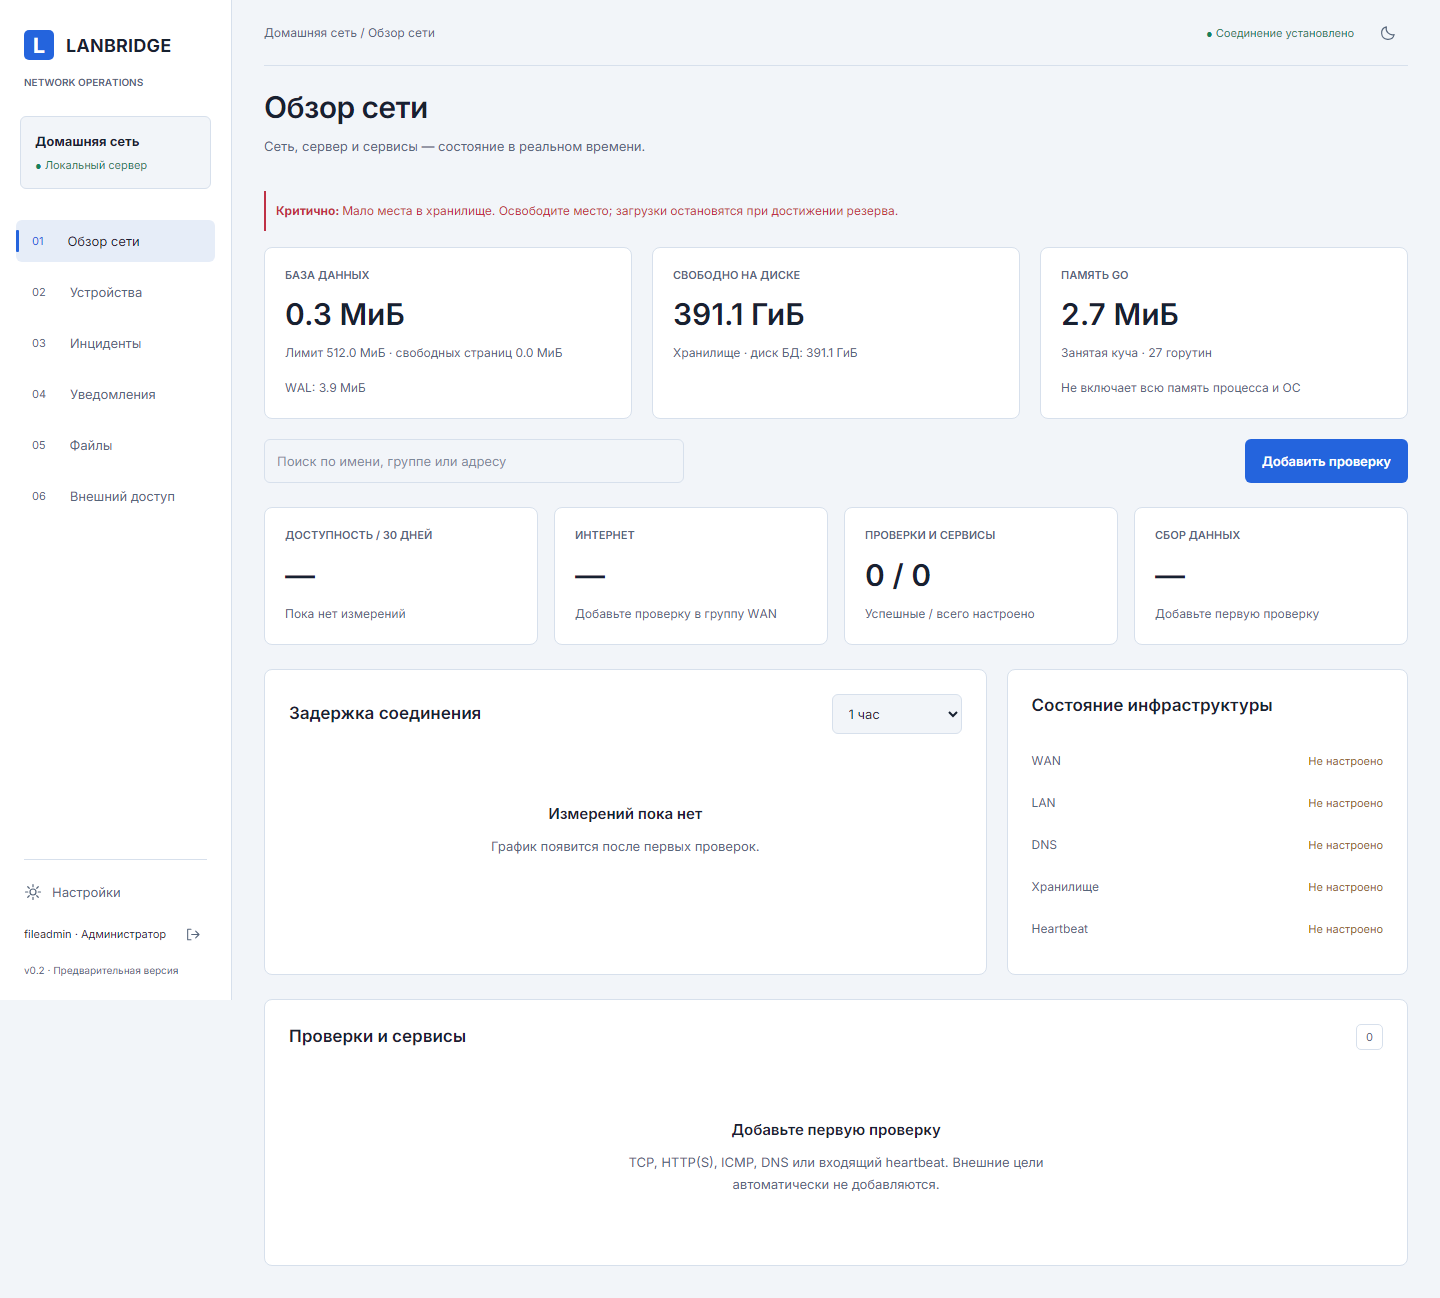
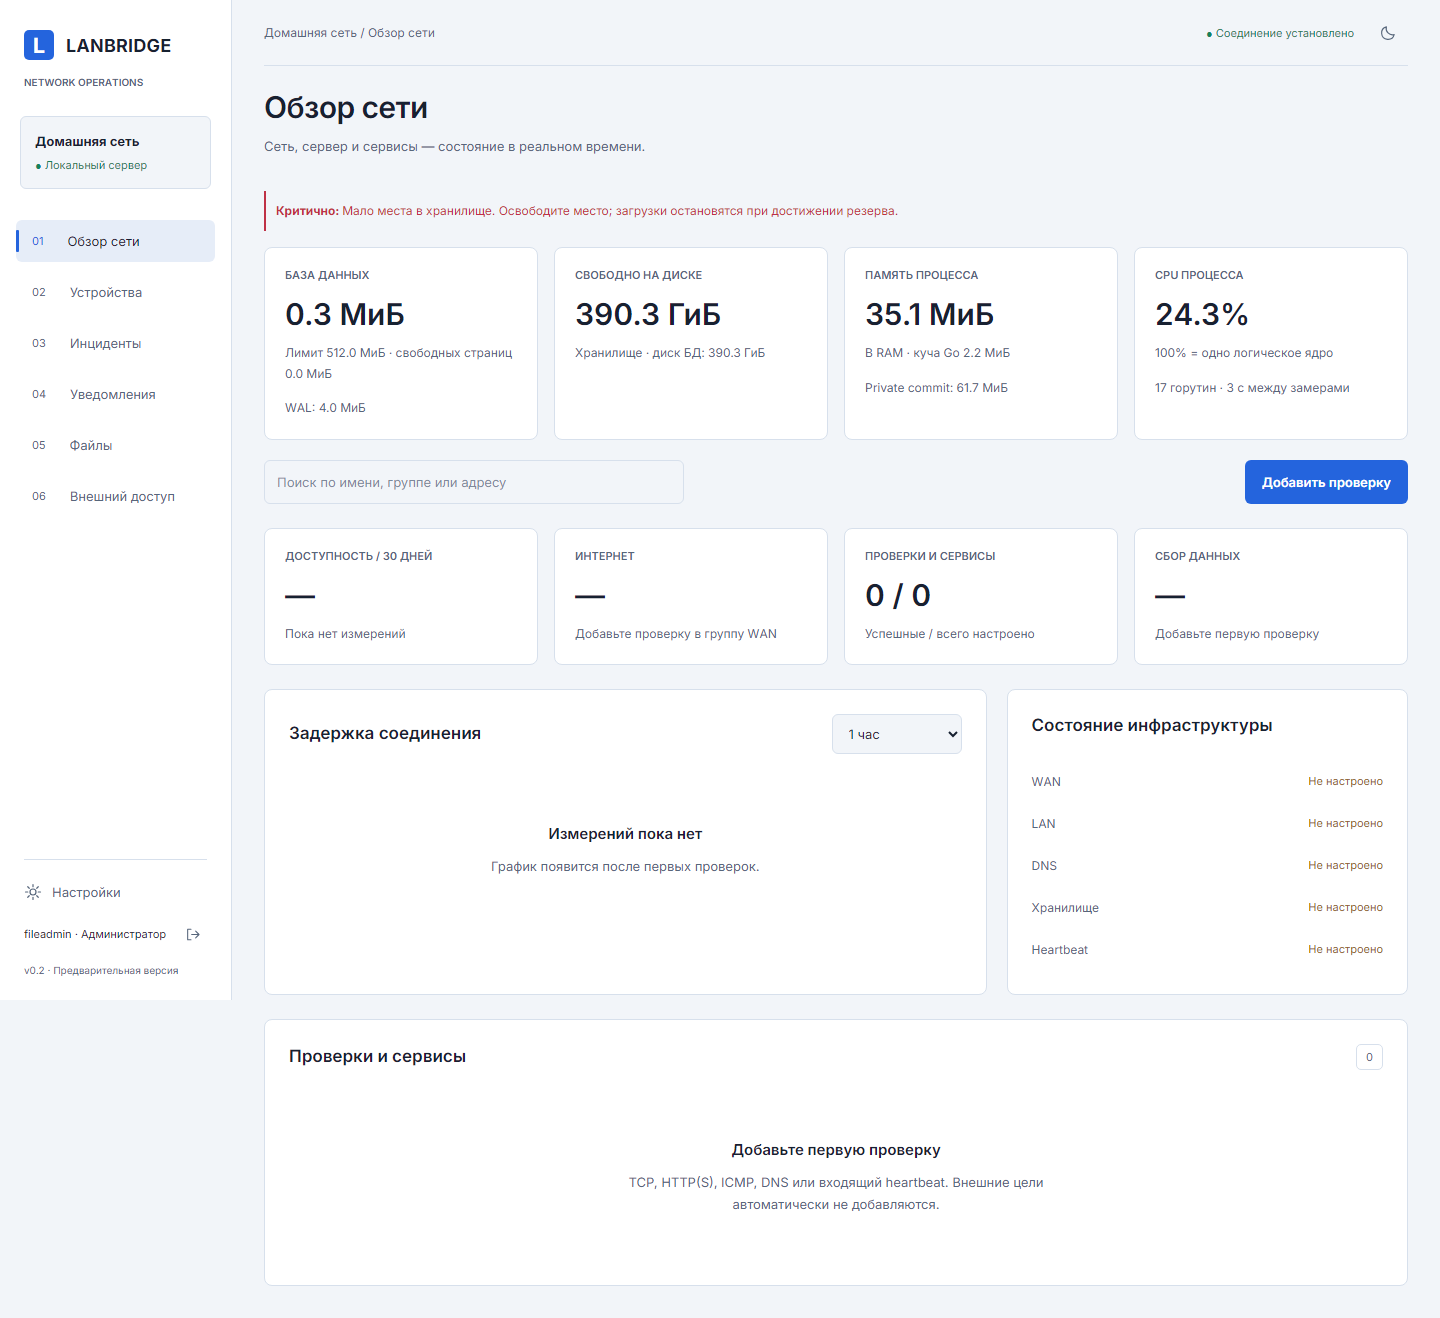
feat: show native process CPU and memory metrics

diff --git a/web/src/resources.js b/web/src/resources.js
@@ -22,10 +22,11 @@ export function Resources({api,details=false}) {
  return html`<section class="resource-status" aria-label="Ресурсы сервера">
   ${error&&html`<p class="connection-note" role="status">${error}${data?' Показаны предыдущие измерения.':''}</p>`}
   ${data?.alerts.map(a=>html`<p key=${a.code} class=${a.level==='critical'?'form-error':'connection-note'} role="status"><strong>${a.level==='critical'?'Критично: ':a.level==='unknown'?'Нет измерения: ':'Внимание: '}</strong>${a.message}</p>`)}
-  ${details&&data&&html`<div class="stats three">
+  ${details&&data&&html`<div class="stats four">
    <section class="stat"><h2>БАЗА ДАННЫХ</h2><strong>${bytes(data.database_bytes)}</strong><p>Лимит ${bytes(data.database_limit)} · свободных страниц ${bytes(data.reusable_bytes)}</p><p>WAL: ${bytes(data.wal_bytes)}</p></section>
    <section class="stat"><h2>СВОБОДНО НА ДИСКЕ</h2><strong>${unknown('storage_disk')?'Нет данных':bytes(data.storage_available)}</strong><p>Хранилище · диск БД: ${unknown('data_disk')?'нет данных':bytes(data.data_available)}</p></section>
-   <section class="stat"><h2>ПАМЯТЬ GO</h2><strong>${bytes(data.heap_bytes)}</strong><p>Занятая куча · ${data.goroutines} горутин</p><p>Не включает всю память процесса и ОС</p></section>
+   <section class="stat"><h2>ПАМЯТЬ ПРОЦЕССА</h2><strong>${data.process?bytes(data.process.resident_bytes):'Нет данных'}</strong><p>В RAM · куча Go ${bytes(data.heap_bytes)}</p><p>${data.process?.private_bytes!==null&&data.process?.private_bytes!==undefined?'Private commit: '+bytes(data.process.private_bytes):'RSS может включать общие страницы'}</p></section>
+   <section class="stat"><h2>CPU ПРОЦЕССА</h2><strong>${data.process?.cpu_percent!==null&&data.process?.cpu_percent!==undefined?data.process.cpu_percent.toFixed(1)+'%':'Ожидание замера'}</strong><p>100% = одно логическое ядро</p><p>${data.goroutines} горутин · ${data.process?.window_seconds?Math.round(data.process.window_seconds)+' с между замерами':'Нужны два замера'}</p></section>
   </div>`}
  </section>`;
 }

diff --git a/internal/server/resources.go b/internal/server/resources.go
@@ -8,6 +8,7 @@ import (
 	"time"
 
 	"lanbridge/internal/files"
+	"lanbridge/internal/processmetrics"
 )
 
 type resourceAlert struct {
@@ -16,16 +17,17 @@ type resourceAlert struct {
 	Message string `json:"message"`
 }
 type resourceSnapshot struct {
-	At               int64           `json:"at"`
-	DatabaseBytes    int64           `json:"database_bytes"`
-	DatabaseLimit    int64           `json:"database_limit"`
-	ReusableBytes    int64           `json:"reusable_bytes"`
-	WALBytes         int64           `json:"wal_bytes"`
-	StorageAvailable uint64          `json:"storage_available"`
-	DataAvailable    uint64          `json:"data_available"`
-	HeapBytes        uint64          `json:"heap_bytes"`
-	Goroutines       int             `json:"goroutines"`
-	Alerts           []resourceAlert `json:"alerts"`
+	Process          *processmetrics.Sample `json:"process"`
+	At               int64                  `json:"at"`
+	DatabaseBytes    int64                  `json:"database_bytes"`
+	DatabaseLimit    int64                  `json:"database_limit"`
+	ReusableBytes    int64                  `json:"reusable_bytes"`
+	WALBytes         int64                  `json:"wal_bytes"`
+	StorageAvailable uint64                 `json:"storage_available"`
+	DataAvailable    uint64                 `json:"data_available"`
+	HeapBytes        uint64                 `json:"heap_bytes"`
+	Goroutines       int                    `json:"goroutines"`
+	Alerts           []resourceAlert        `json:"alerts"`
 }
 
 func diskLevel(free, critical uint64) string {
@@ -96,6 +98,12 @@ func (s *Server) resourceStatus(ctx context.Context) (resourceSnapshot, error) {
 		} else {
 			add("storage_disk", diskLevel(r.StorageAvailable, uint64(max(settings.CriticalFree, 0))), "Мало места в хранилище. Освободите место; загрузки остановятся при достижении резерва.")
 		}
+	}
+	process, processErr := s.processMeter.Read()
+	if processErr != nil {
+		add("process", "unknown", "Не удалось измерить CPU и память процесса.")
+	} else {
+		r.Process = &process
 	}
 	var memory runtime.MemStats
 	runtime.ReadMemStats(&memory)

diff --git a/scripts/verify_go_files.py b/scripts/verify_go_files.py
@@ -206,13 +206,13 @@ def main():
      resource_settings=page.evaluate("""async()=>{const s=await(await fetch('/api/status')).json();const old=(await(await fetch('/api/files/storage')).json()).settings;const r=await fetch('/api/files/storage',{method:'PUT',headers:{'Content-Type':'application/json','X-CSRF-Token':s.csrf},body:JSON.stringify({...old,critical_free:1000000000000000})});if(!r.ok)throw new Error(await r.text());return old}""")
      page.goto(base+'/#overview');page.reload()
      page.get_by_text('Мало места в хранилище.',exact=False).wait_for()
-     page.get_by_role('heading',name='ПАМЯТЬ GO',exact=True).wait_for()
+     page.get_by_role('heading',name='ПАМЯТЬ ПРОЦЕССА',exact=True).wait_for()
      for width,device in ((1440,'desktop'),(390,'mobile')):
       page.set_viewport_size({'width':width,'height':1000})
       assert page.evaluate('()=>document.documentElement.scrollWidth<=innerWidth')
       page.screenshot(path=str(output/f'resources-{device}.png'),full_page=True)
      page.evaluate("""async settings=>{const s=await(await fetch('/api/status')).json();const r=await fetch('/api/files/storage',{method:'PUT',headers:{'Content-Type':'application/json','X-CSRF-Token':s.csrf},body:JSON.stringify(settings)});if(!r.ok)throw new Error(await r.text())}""",resource_settings)
-     page.reload();page.get_by_role('heading',name='ПАМЯТЬ GO',exact=True).wait_for()
+     page.reload();page.get_by_role('heading',name='ПАМЯТЬ ПРОЦЕССА',exact=True).wait_for()
      assert page.get_by_text('Мало места в хранилище.',exact=False).count()==0
      assert not errors,errors
      browser.close()

diff --git a/internal/processmetrics/metrics_test.go b/internal/processmetrics/metrics_test.go
@@ -1,0 +1,51 @@
+package processmetrics
+
+import (
+	"runtime"
+	"testing"
+	"time"
+)
+
+func TestMeterWindowAndCounterReset(t *testing.T) {
+	var meter Meter
+	now := time.Unix(1000, 0)
+	if got := meter.observe(now, counters{resident: 123, cpu: time.Second}); got.CPUPercent != nil || got.ResidentBytes != 123 {
+		t.Fatal(got)
+	}
+	got := meter.observe(now.Add(2*time.Second), counters{cpu: 4 * time.Second})
+	if got.CPUPercent == nil || *got.CPUPercent != 150 || got.WindowSeconds != 2 {
+		t.Fatal(got)
+	}
+	got = meter.observe(now.Add(3*time.Second), counters{cpu: time.Second})
+	if got.CPUPercent != nil {
+		t.Fatal("counter regression produced CPU")
+	}
+	got = meter.observe(now.Add(3*time.Second), counters{cpu: 2 * time.Second})
+	if got.CPUPercent != nil {
+		t.Fatal("zero window produced CPU")
+	}
+}
+
+func TestNativeProcessCounters(t *testing.T) {
+	if runtime.GOOS != "windows" && runtime.GOOS != "linux" {
+		t.Skip("unsupported platform")
+	}
+	var meter Meter
+	got, err := meter.Read()
+	if err != nil || got.ResidentBytes == 0 {
+		t.Fatal(got, err)
+	}
+	if runtime.GOOS == "windows" && (got.PrivateBytes == nil || *got.PrivateBytes == 0) {
+		t.Fatal("missing private commit")
+	}
+	if runtime.GOOS == "linux" && got.PrivateBytes != nil {
+		t.Fatal("unsupported private metric reported")
+	}
+	if got.CPUPercent != nil {
+		t.Fatal("first CPU sample must be unknown")
+	}
+	cached, err := meter.Read()
+	if err != nil || cached.ResidentBytes != got.ResidentBytes {
+		t.Fatal(cached, err)
+	}
+}

diff --git a/internal/processmetrics/metrics_windows.go b/internal/processmetrics/metrics_windows.go
@@ -1,0 +1,47 @@
+package processmetrics
+
+import (
+	"errors"
+	"golang.org/x/sys/windows"
+	"time"
+	"unsafe"
+)
+
+var memoryInfo = windows.NewLazySystemDLL("kernel32.dll").NewProc("K32GetProcessMemoryInfo")
+
+// PROCESS_MEMORY_COUNTERS_EX: SIZE_T fields follow two DWORD fields.
+type memoryCounters struct {
+	size         uint32
+	faults       uint32
+	peakWorking  uintptr
+	working      uintptr
+	peakPaged    uintptr
+	paged        uintptr
+	peakNonPaged uintptr
+	nonPaged     uintptr
+	pagefile     uintptr
+	peakPagefile uintptr
+	private      uintptr
+}
+
+func readCounters() (counters, error) {
+	var creation, exit, kernel, user windows.Filetime
+	if err := windows.GetProcessTimes(windows.CurrentProcess(), &creation, &exit, &kernel, &user); err != nil {
+		return counters{}, err
+	}
+	if err := memoryInfo.Find(); err != nil {
+		return counters{}, err
+	}
+	var memory memoryCounters
+	memory.size = uint32(unsafe.Sizeof(memory))
+	ok, _, err := memoryInfo.Call(uintptr(windows.CurrentProcess()), uintptr(unsafe.Pointer(&memory)), uintptr(memory.size))
+	if ok == 0 {
+		if err == nil || err == windows.ERROR_SUCCESS {
+			err = errors.New("process memory query failed")
+		}
+		return counters{}, err
+	}
+	ticks := func(value windows.Filetime) uint64 { return uint64(value.HighDateTime)<<32 | uint64(value.LowDateTime) }
+	private := uint64(memory.private)
+	return counters{resident: uint64(memory.working), private: &private, cpu: time.Duration(ticks(kernel)+ticks(user)) * 100}, nil
+}

diff --git a/internal/processmetrics/metrics.go b/internal/processmetrics/metrics.go
@@ -1,0 +1,54 @@
+package processmetrics
+
+import (
+	"sync"
+	"time"
+)
+
+type Sample struct {
+	ResidentBytes uint64   `json:"resident_bytes"`
+	PrivateBytes  *uint64  `json:"private_bytes"`
+	CPUPercent    *float64 `json:"cpu_percent"`
+	WindowSeconds float64  `json:"window_seconds"`
+}
+type counters struct {
+	resident uint64
+	private  *uint64
+	cpu      time.Duration
+}
+
+// Meter measures this process only. One fully occupied logical core is 100%.
+// Calls share a one-second minimum sampling window and never spawn subprocesses.
+type Meter struct {
+	mu     sync.Mutex
+	last   time.Time
+	cpu    time.Duration
+	sample Sample
+}
+
+func (m *Meter) Read() (Sample, error) {
+	m.mu.Lock()
+	defer m.mu.Unlock()
+	now := time.Now()
+	if !m.last.IsZero() && now.Sub(m.last) < time.Second {
+		return m.sample, nil
+	}
+	raw, err := readCounters()
+	if err != nil {
+		return Sample{}, err
+	}
+	return m.observe(now, raw), nil
+}
+
+func (m *Meter) observe(now time.Time, raw counters) Sample {
+	next := Sample{ResidentBytes: raw.resident, PrivateBytes: raw.private}
+	if !m.last.IsZero() && now.After(m.last) && raw.cpu >= m.cpu {
+		next.WindowSeconds = now.Sub(m.last).Seconds()
+		percent := 100 * (raw.cpu - m.cpu).Seconds() / next.WindowSeconds
+		next.CPUPercent = &percent
+	}
+	m.last = now
+	m.cpu = raw.cpu
+	m.sample = next
+	return next
+}

diff --git a/scripts/verify_go.py b/scripts/verify_go.py
@@ -71,6 +71,15 @@ def main():
                     peak_private = max(peak_private, getattr(info, "private", info.vms))
                 final = observed.cpu_times()
                 cpu = 100 * (final.user + final.system - initial.user - initial.system) / (time.monotonic() - started)
+                native = call('/api/resources')['process']
+                assert native and native['resident_bytes'] > 0
+                assert native['cpu_percent'] is not None and native['cpu_percent'] >= 0
+                reference = observed.memory_info()
+                assert abs(native['resident_bytes'] - reference.rss) < max(8 << 20, reference.rss * .2), (native, reference)
+                if os.name == 'nt':
+                    assert native['private_bytes'] > 0
+                    assert abs(native['private_bytes'] - reference.private) < max(8 << 20, reference.private * .2), (native, reference)
+                print(json.dumps({'native_process_metrics': native, 'psutil_reference_rss': reference.rss, 'comparison': 'PASS'}))
                 print(json.dumps({"binary_bytes": binary.stat().st_size, "idle_seconds": args.seconds,
                                   "working_set_peak_bytes": peak_rss, "private_peak_bytes": peak_private,
                                   "cpu_percent_one_core": round(cpu, 3), "monitors": 0}, indent=2))

diff --git a/internal/processmetrics/metrics_linux.go b/internal/processmetrics/metrics_linux.go
@@ -1,0 +1,32 @@
+package processmetrics
+
+import (
+	"errors"
+	"golang.org/x/sys/unix"
+	"os"
+	"strconv"
+	"strings"
+	"time"
+)
+
+func readCounters() (counters, error) {
+	var usage unix.Rusage
+	if err := unix.Getrusage(unix.RUSAGE_SELF, &usage); err != nil {
+		return counters{}, err
+	}
+	data, err := os.ReadFile("/proc/self/statm")
+	if err != nil {
+		return counters{}, err
+	}
+	fields := strings.Fields(string(data))
+	if len(fields) < 2 {
+		return counters{}, errors.New("invalid /proc/self/statm")
+	}
+	pages, err := strconv.ParseUint(fields[1], 10, 64)
+	if err != nil {
+		return counters{}, err
+	}
+	seconds := usage.Utime.Sec + usage.Stime.Sec
+	micros := usage.Utime.Usec + usage.Stime.Usec
+	return counters{resident: pages * uint64(os.Getpagesize()), cpu: time.Duration(seconds)*time.Second + time.Duration(micros)*time.Microsecond}, nil
+}

diff --git a/internal/server/server.go b/internal/server/server.go
@@ -27,6 +27,7 @@ import (
 	"lanbridge/internal/monitor"
 	"lanbridge/internal/network"
 	"lanbridge/internal/notify"
+	"lanbridge/internal/processmetrics"
 	"lanbridge/internal/store"
 	"lanbridge/internal/tunnels"
 )
@@ -46,6 +47,7 @@ type event struct {
 	Data any    `json:"data"`
 }
 type Server struct {
+	processMeter     processmetrics.Meter
 	resourceMu       sync.Mutex
 	resourceLevels   map[string]string
 	DB               *sql.DB

diff --git a/internal/processmetrics/metrics_other.go b/internal/processmetrics/metrics_other.go
@@ -1,0 +1,9 @@
+//go:build !windows && !linux
+
+package processmetrics
+
+import "errors"
+
+func readCounters() (counters, error) {
+	return counters{}, errors.New("process metrics require Windows or Linux")
+}

diff --git a/docs/go-resources.md b/docs/go-resources.md
@@ -2,9 +2,23 @@
 
 Администратор видит предупреждения на всех страницах Go-интерфейса. В обзоре
 дополнительно показаны размер основной БД, свободные страницы, размер WAL,
-свободное место хранилища/диска БД и занятая куча Go. Куча Go не равна всей памяти
-процесса: сюда не входят все стеки, отображения файлов и память ОС. CPU и полная
-память процесса пока не измеряются.
+свободное место хранилища/диска БД, CPU и память процесса. Windows: рабочий набор
+(working set) и Private commit; Linux: RSS. Отдельно показана занятая куча Go,
+которая не равна всей памяти процесса. Рабочий набор/RSS может включать общие
+страницы; Private commit включает выделенную процессу память, даже не находящуюся
+сейчас в RAM. Метрики относятся только к процессу LANBridge, без ОС и cloudflared.
+
+CPU — разность пользовательского и системного времени процесса между замерами,
+делённая на прошедшее время. 100% означает одно занятое логическое ядро, при
+параллельной работе возможно больше 100%. Первый замер не имеет процента — нужны
+две точки. Минимальный интервал — одна секунда; запросы чаще используют общий кеш.
+В карточке показан фактический интервал. Это средняя нагрузка между замерами,
+а не мгновенный пик. Метрики не сохраняются в БД.
+
+Windows использует GetProcessTimes и [GetProcessMemoryInfo](https://learn.microsoft.com/en-us/windows/win32/api/psapi/nf-psapi-getprocessmemoryinfo)
+со структурой [PROCESS_MEMORY_COUNTERS_EX](https://learn.microsoft.com/en-us/windows/win32/api/psapi/ns-psapi-process_memory_counters_ex).
+Linux использует getrusage и /proc/self/statm; Private commit там не выдаётся.
+Общая загрузка CPU/памяти всего компьютера пока не собирается.
 
 `GET /api/resources` требует сессию администратора; обычный пользователь получает
 403, а гостевой внешний шлюз блокирует этот маршрут. В ответе нет путей runtime.
@@ -41,3 +55,10 @@ WAL не входит в лимит основной БД. Запас диска
 ```powershell
 .venv\Scripts\python.exe scripts/verify_go_files.py
 ```
+
+
+Дополнительно проверены расчёт CPU (включая >100%), отсутствие результата при
+первом замере/сбросе счётчика, чтение реального процесса Windows и кеширование.
+`scripts/verify_go.py` сравнивает рабочий набор и Private commit API с psutil;
+допуск 8 МиБ или 20% учитывает разные моменты измерения и работу сборщика мусора.
+Linux-реализация проходит кросс-сборку, но ещё не проверена на работающем Linux.

diff --git a/docs/go-foundation.md b/docs/go-foundation.md
@@ -155,7 +155,7 @@ Windows-служба реализована, но запуск через нас
 50 и 100 HTTP-мониторов проверены короткими прогонами; замеры в
 [отчёте](performance.md). Передача 20 ГиБ с перезапуском и проверкой SHA-256 пройдена: [go-files.md](go-files.md).
 24-часовой прогон и 60 fps ещё не измерены.
-Перетаскивание порядка групп ещё не подключено. CPU и полная память процесса ещё не измеряются. Диск, БД/WAL и куча Go уже
+Перетаскивание порядка групп ещё не подключено. CPU процесса, рабочий набор/RSS, диск, БД/WAL и куча Go
 показаны администратору: [go-resources.md](go-resources.md).
 Тег v0.1.0 не устанавливается.
 
